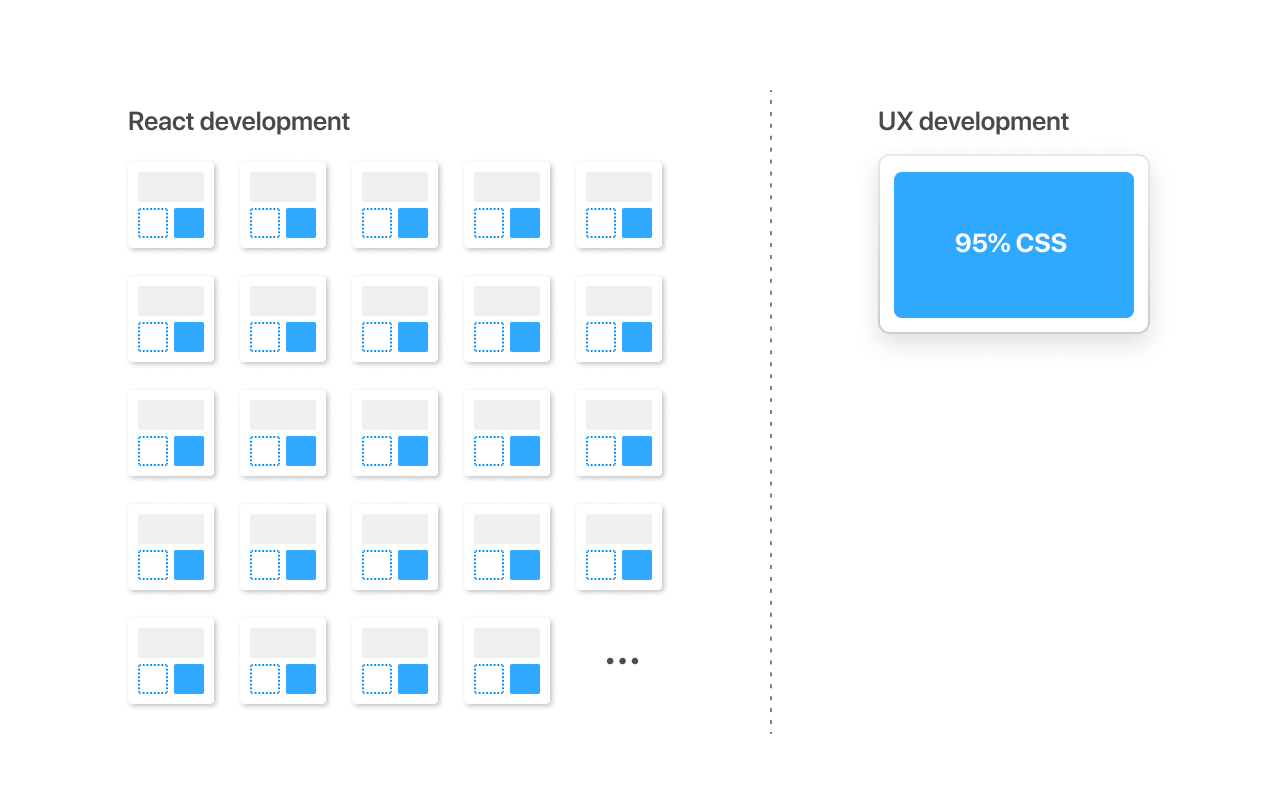
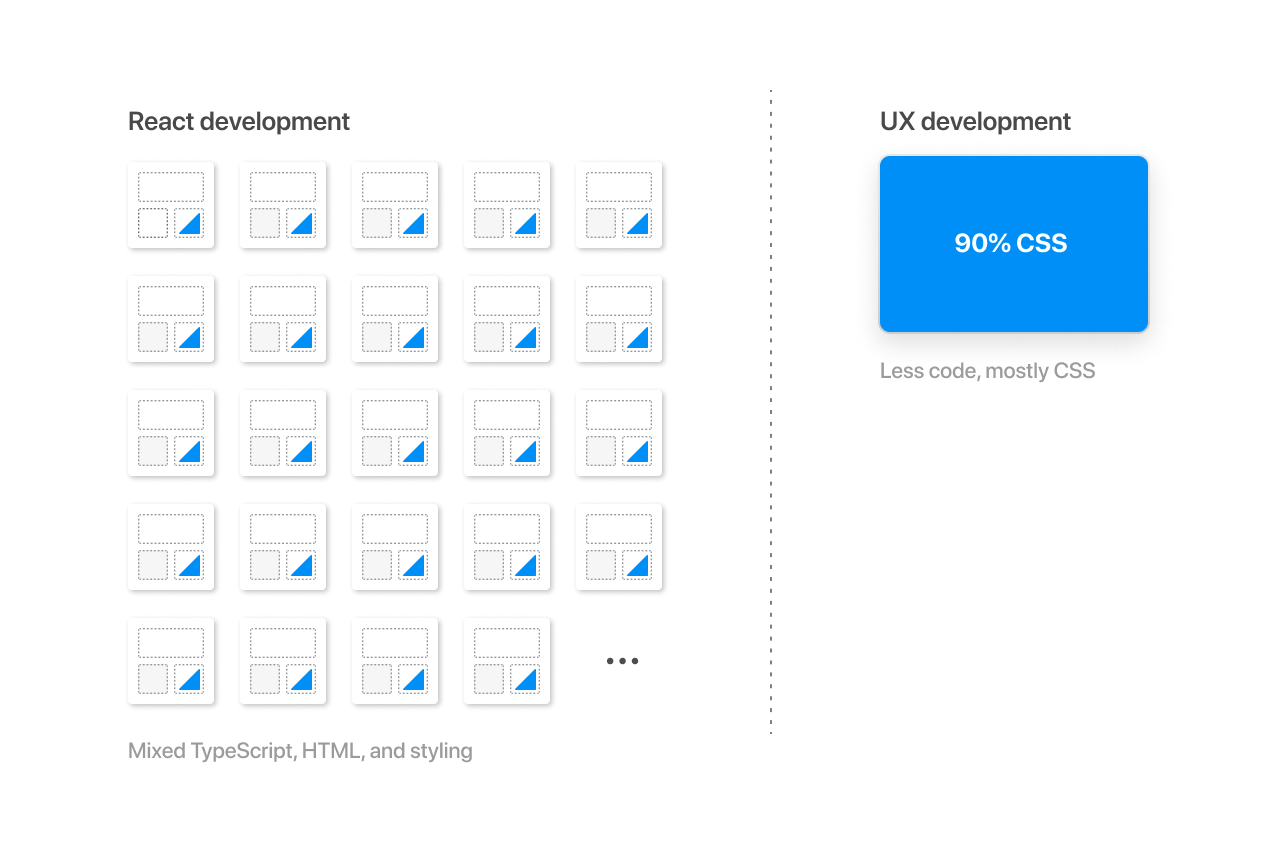
New narrative again

diff --git a/packages/nuejs.org/docs/index.md b/packages/nuejs.org/docs/index.md
@@ -1,25 +1,32 @@
 
 
-# Nue: A content-first framework
-
-Content-first is a design and develoment strategy that places content ahead of everything else to create user-friendly products. This strategy builds on the followng foundations:
-
-[image.floating]
-  src: /img/ux-stack.png
-  width: 300
-
-- [Separation of Concerns](//en.wikipedia.org/wiki/Separation_of_concerns) is a web design principle for separating your code into clearly distinct layers: content, layout, styling, and reactivity. This increases the clarity and scalability of your code.
-
-- [Form follows Function](//en.wikipedia.org/wiki/Form_follows_function) is a principle that states that the design of your website should primarily relate to its intended function. That is: draft your content first, before proceeding with the other layers of the product.
-
-- [Progressive Enhancement](//en.wikipedia.org/wiki/Progressive_enhancement) is web design strategy allowing everyone to access the basic content and functionality first, which is then enhanced with visual- and reactive elements for users with more capable devices.
-
-- [Minimalism](//en.wikipedia.org/wiki/Minimalism_(computing)) is a logical result from content-first development model. A design constrained to bare essentials produces the simplest and cleanest system architecture.
+# Web framework for UX developers
+Nue is a rapid application development environment for UX developers and other design-minded front-end engineers. It changes the way you think about web development: what used to take a React specialist and thousands of lines of TypeScript is now taken care of with just a few hundred lines of modern CSS.
 
 
+## Global design system
+Nue's secret lies in a thing called _global design system_. It provides web designers, developers, and content creators a common way to structure user interfaces:
 
-## Nue is for UX developers
-Nue makes a big difference on how you code looks like. What used to take a React/Tailwind specialist and thousands of lines of TypeScript is now taken care by a [UX developer][brad] with a few hundred lines of CSS. And the result is a record-breaking performant website with great UX for both the end users (visitors) and the people managing website content. To give you a rough idea, here are Tailwind and Nue front page source codes compared:
+! Mega Explainer Image
+    Global design system: Layout system, Styling framework, Reactivity, Optimizations
+    UX development: standard web stack, 90% CSS
+
+Nue frees you from implementing page layouts and basic UI elements over and over again and uses one system for all your new projects. Your work essentially narrows down to customizing the look and feel through CSS and optionally spice it up with a little bit of JavaScript.
+
+
+[quote from="Brad Frost" cite="//bradfrost.com/blog/post/a-global-design-system/"]
+  Global Design System improves the quality and accessibility of the world’s web experiences, saves the world’s web designers and developers millions of hours, and makes better use of our collective human potential.
+
+Think Nue as a modern-day [CSS Zen Graden](//csszengarden.com/) — a demonstration of what can be accomplished through CSS. Nue just takes it a couple of steps further and expands the idea to a full-blown web development environment.
+
+
+
+## For UX developers
+Nue is ideal for UX developers who focus on design, accessibility, and the [front of the frontend[brad]. They are fluent with the standard web stack: HTML, CSS, and the basics of JavaScript.
+
+
+### Less code, mostly CSS
+What used to be thousands of lines of TypeScript is narrowed down to just a few hundred lines of CSS. To give you a rough idea, here is the front page source code for both Tailwind and Nue:
 
 
 [.stack]
@@ -39,91 +46,157 @@ Nue makes a big difference on how you code looks like. What used to take a React
     href: //github.com/tipiirai/nue/blob/master/new-www/index.md?plain=1
 
 
+Nue requires significantly less code to build the same thing. For example, this documentation area is made up of ~250 lines of CSS and ~50 lines of optional JavaScript. Contrast this to any React-based documentation generator and you are faced with hundreds of components where the application code is mixed with all the frontend stuff:
+
+[image.gridpaper]
+  small: /img/react-vs-ux-dev.png
+  large: /img/react-vs-ux-dev-big.png
+
+
+### Less is More
+Today, the amount of JS and CSS on the resulting website can easily get out of hand. The issue is rooted in locally styled components, which are surprisingly large. For example, the combined weight of all CSS on this page is only 7kb, which is smaller than a single [Tailwind button component](/)!
+
+With Nue, you are taking a more [minimalistic approach](practices) to build user-friendly and easily maintainable products that stand the test of time.
+
+
+
+
+### Work closer to standards
+[image.floating]
+  src: /img/ux-stack.png
+  width: 300
+
+Nue embraces the [separation of concerns][soc] principle to isolate your code into clearly distinct layers: content, layout, styling, and reactivity. This increases the clarity of your code and allows you to build websites with vanilla CSS and JavaSript.
+
+The code you are writing now is something that all developers from whatever background can understand for years to come. Because trends come and go, but standards are forever.
+
+
 
 ### Shift in focus
-Nue changes the way you think about web development. Instead on learning all the advanced programming concepts and framework-specific idioms, the focus shifts to designs systems and UX development. It's a [whole different mindset][divide]:
+Instead of learning all the advanced TypeScript concepts and framework-specific idioms, the development focus shifts to building great design and user experience. It's a [whole different mindset][divide]
 
-[table head="Preference | React developer | UX developer"]
-  - Preferred tech | React + Tailwind | Web Standards
+[table head="| Engineers / React developers | Designers / UX developers"]
+  - Focus on | Programming | Design and UX
+  - Key technologies | React + Tailwind | Web Standards
   - Primary language | TypeScript | CSS
-  - Building blocks | Components | Global Design System
-  - Strategy | Tight coupling | Separation of Concerns
-  - Design strategy |  Utility classes | Form follows Function
+  - Building blocks | Custom components | Global Design System
+  - Key strategy | Tight coupling | Separation of concerns
+  - Styling method |  Local styling | External styling
   - Highly valued | Type Safety | Minimalism
 
 
-UX developers approach development from the content side focusing on the problems and desires of it's audience:
+In short: UX developers approach product solving from the customer side:
 
 [image.gridpaper]
   small: /img/ux-development.png
   large: /img/ux-development-big.png
 
-This reduces risk of over-engineering the technology stack. You may have the coolest technology choices in the world, with the sickest visual tricks possible, but if the content fails, everything fails. Or as [Steve Jobs says](//youtu.be/dI93BvrBxQ0?si=Ub2Q_S_E7uKVilVL&t=104):
+You may have the coolest technology choices in the world, with the sickest visual tricks possible, but if the UX fails, everything fails. Or as [Steve Jobs says](//youtu.be/dI93BvrBxQ0?si=Ub2Q_S_E7uKVilVL&t=104):
 
 [quote.floating from="Steve Jobs"]
   You've got to start with the customer experience and work backwards for the technology
 
 
 
-### Do more with less
-Nue requires significantly less code to build the same thing. For example, this documentation area ia made up with ~250 lines of documented CSS and ~50 lines of JavaScript (The "Zen mode" and scroll/navigation highlight). Contrast this to any React-based documentation generator and you are faced with thousands of lines with TypeScript/TSX.
-
-The same goes to the results, where the difference is also massive. For example, the combined weight of all CSS on this page is 7kb, which is smaller than a [single Tailwind button](/).
-
-Minimalism yields to most maintainable and scaleable products.
+## Superior web experiences
 
 
+### More consistent design and UX
+With Nue, you don't need one system for documentation, another for blogging, and yet another for your single-page application. Instead, you have a centrally controlled design system, effectively spread across all areas of your website. This builds a more consistent user experience.
 
-### Work closer to standards
-Thanks to separation of concerns, Nue can operate closer to with significantly less abstractions and NPM modules. Websites is mostly built with vanilla CSS and little bit of JavaScript. You'll get to know how the web works on the lower level.
+! IMAGE
+  Design system -->
+    Marketing pages
+    Documentation area
+    Blogging area
+    Product (Single-page app)
+    (view transitions)
 
-Most importantly: the code you are writing now is something that all developers can understand for years to come. Because trends come and go, but standards are forever.
+
+
+### Universal view transitions
+Nue supports [View Transition API](https://developer.chrome.com/docs/web-platform/view-transitions/) when navigating your website. This lets you use the standard `::view-transition` CSS pseudo-element to fine-tune the animation between page switches. This comes out of the box without any custom custom wiring to your links. Again, you get to learn how the web standard works.
+
+In the future version of Nue, the transitions are supported in single-page applications as well, after which you can seamlessly transition between multi-page- and single-page applications.
 
 
 
-### Build snappier experiences
-Content-first stack generates leaner and more performant websites. The resulting pages are not just smaller, but can be easily inlined to one, compact package:
+### Faster landing pages
+Nue-powered sites can offer the same performance levels as text-only websites like [motherfuckingwebsite.com](//motherfuckingwebsite.com/), but without compromising on design. That is: you can get the fastest possible page loads with the design and user experience levels of Stripe or Linear.
+
+Nue [optimizes](performance-optimization) your landing pages to a single, compact HTTP request that has everything to render the full experience:
 
 [image.gridpaper]
   small: /img/first-paint.png
   large: /img/first-paint-big.png
 
 
-This is again, much different to what the other frameworks like Next.js and Vite are doing. They put most of their effort to Rust-based bundlres that can combine and minify hundreds, sometimes even thousands of JavaScript packages and NPM moules into one deliverable. This may work for single-page applications, but is suboptimal for content-heavy websites. No amount of JS bundling can beat a tiny packet that has all the HTML and CSS to to render the full experience.
+This is pretty much the opposite of what the other frameworks like *Next.js* and *Vite* are doing. They put all their optimization efforts into Rust-based tooling that deals with hundreds, sometimes even thousands of JavaScript files. This may work for single-page applications but is not ideal for content-heavy websites. No amount of JS bundling can beat a single HTTP request that has everything to render the page.
 
 
-### Nue makes you move faster
-When the core parts of your web stack are neatly separated, people can focus on the areas they are natively interested in:
+
+
+## Faster, happier teams
+When the core parts of your web stack are neatly separated your team members can focus on areas they are natively good at.
+
+
+### Content people
+*Marketers, copywriters* and *technical writers* can focus on content in isolation without constant troubling of the developers. All your pages, from rich landing pages to simple blog entries are editable by non-technical people. Here's the difference between Next.js and Nue and how the front page is authored:
+
+[.stack]
+  [image.bordered]
+    small: /img/mixed-content.png
+    large: /img/mixed-content-big.png
+    caption: "Next.js: content is found inside JavaScript code
+    href: //github.com/tailwindlabs/tailwindcss.com/blob/master/src/pages/index.js#L151
+
+  ---
+  [image.bordered]
+    small: /img/nue-page.png
+    large: /img/nue-page-big.png
+    caption: "Nue: content is fully extracted for copywriters"
+    href: //github.com/tipiirai/nue/blob/master/new-www/index.md?plain=1
+
+
+### UX developers
+The whole point of a web framework is to help build user-friendly websites that look great. But today, this is all too complex. The user experience developers must know an awful lot of details about React, and TypeScript, even to render a simple "Hello, World" demo.
+
+Nue is different: it brings back to the lost art of UX development, currently overshadowed by engineer-minded people who think that CSS is a terrible language that should not exist. Nue is the opposite: it's for people who love design, UX development, and the power of modern CSS.
+
+
+### JavaScript developers
+If you're a programmer or a backend engineer trying to learn the frontend stack, you are faced with an awful of new concepts and domain-specific idioms. What used to be plain and clean TypeScript is suddenly mixed with mysterious front-end coding.
+
+Nue changes this completely. It separates your application from the front end so you can focus solely on your application logic. Just pure, type-safe code without the frontend spaghetti, which naturally belongs to the UX developer.
 
 [image.gridpaper]
   small: /img/scale.png
   large: /img/scale-big.png
 
 
-- *UX developers* can focus on design and user experience without troubling themselves with advanced TypeScript/React concepts.
-
-- *Marketers, copywriters* and *technical writers* can focus on content in isolation without constant troubling of developers.
-
-- *JavaScript developers* can focus on the application logic without troubling themselves with design or CSS.
+To sum up: Nue is not just another JavaScript framework. It increases the quality of your product and makes happier, more productive teams. You might not believe that until you actually try it out and experience the simplicity firsthand. You start wondering why you ever built frontends any other way.
 
 
-## Key features of Nue
+- - -
+
+
+## Continue reading
 
 [.grid item="card"]
   ### Global Design System
-  A styling framework to save you from repeating yourself
+  A universal styling framework for your web projects
 
   [Learn more](global-design-system.html)
   ---
 
   ### Content Management System
-  A powerful content management system for marketers, and technical writers
+  A simple content management system for non-technical people
 
   [Learn more](content-management-system.html)
   ---
 
   ### Reactivity layer
-  Turns your content into rich, interactive experience
+  Turns your content into a rich, interactive experience
 
   [Learn more](reactivity.html)
   ---

diff --git a/packages/nuejs.org/docs/command-line-interface.md b/packages/nuejs.org/docs/command-line-interface.md
@@ -1,0 +1,90 @@
+
+# Command line interface
+The command line interface documents itself with a `--help` option:
+
+
+## Options
+
+``` sh
+nue --help
+```
+
+This returns following output
+
+``` nuemark
+Usage
+  nue [command] [options] [file_matches]
+  nue -v or --version
+  nue -h or --help
+
+Commands
+  serve    Start development server (default command)
+  build    Build the site under <root_dir>
+  stats    Show site statistics (beta)
+
+Options
+  -r or --root          Source directory. Default "." (current working dir)
+  -p or --production    Build production version / Show production stats
+  -e or --environment   Read extra options to override defaults in site.yaml
+  -s or --stats         Show site statistics after current command
+  -I or --init          Force clear and initialize output directory
+  -n or --dry-run       Show what would be built. Does not create outputs
+  -b or --esbuild       Use esbuild. `npm install -g esbuild` required
+
+File matches
+  Only build files that match the rest of the arguments. For example:
+  "nue build .ts .css" will build all TypeScript and CSS files
+
+Examples
+  # serve current directory
+  nue
+
+  # build everything
+  nue build
+
+  # build everything to production with extra config
+  nue build --production --environment staging.yaml
+
+  # build all Markdown and CSS files
+  nue build .md .css
+
+  # more examples
+  open https://nuejs.org/docs/cli
+
+Less is more
+
+ ┏━┓┏┓┏┳━━┓
+ ┃┏┓┫┃┃┃┃━┫
+ ┃┃┃┃┗┛┃┃━┫  nuejs.org
+ ┗┛┗┻━━┻━━┛
+
+```
+
+
+## Examples
+Few more usage examples:
+
+``` sh
+# serve current directory
+nue
+
+# serve the production version (no hot-reloading)
+nue --production
+
+# build to production with custom settings
+nue build -p --environment custom.yaml
+
+# show production stats
+nue -p stats
+
+# show what will be built (without building)
+nue build .js .ts .nue --dry-run
+```
+
+## How it looks
+
+Here's an example output of `nue build` command. The operation usually takes less than 100 milliseconds to perform, even with hundreds of files.
+
+[bunny-video]
+  videoId: 45b73e3a-3edd-47af-bcd8-49039496b107
+  width: 600

diff --git a/packages/nuejs.org/docs/global-design-system.md b/packages/nuejs.org/docs/global-design-system.md
@@ -1,6 +1,30 @@
 
 
 # Global Design System
+
+## CSS Zen Garden
+Nue layout system is a modern-day [CSS Zen Graden](//csszengarden.com/). For those old enough to remember, it was a demonstration of what can be accomplished through CSS-based design. You always get the same layout for your pages and components, but the design can change wildly just by using a different stylesheet.
+
+Nue layout system is exactly the same idea, and extends it with the following
+
+1. Standard's based HTML layouts for most common scenarios: blog entries, documentation entries, index pages, and rich freeform layouts like the front page. Modern Semantic HTML elements, not available in the era of Zen Garden.
+
+1. Component library. A growing set. Focusing on content-heavy websites, and later expanding to SPA's as well. Perfected with accessibility guidelines. The HTML code in the standard componetns follow closely W3C..
+
+
+1. Reactivity layyer: Complete web experiences with view transitions, web components, and reactive components.  after 20 years of advancement CSS and web technologies.
+
+
+// blog.logrocket.com/ux-design/creating-global-design-system/
+### Don't repeat yourself
+
+
+
+
+### Markdown extensions
+Nuemark = Markdown + Global Design System, ..
+
+
 Global design system (GDS) is a styling framework to turn your personal design system into a functional website:
 
 [image.gridpaper]
@@ -9,10 +33,7 @@ Global design system (GDS) is a styling framework to turn your personal design s
 
 
 
-Nue offers a headless set of page layouts and components so that implementing a website reduces to creating your personal theme with Nue's powerful styling framework. Think of it like a modern-day [CSS Zen Garden](//www.csszengarden.com/) but after 20 years of advancement CSS and web technologies.
 
-[quote from="Brad Frost" cite="//bradfrost.com/blog/post/a-global-design-system/"]
-  Global Design System improves the quality and accessibility of the world’s web experiences, save the world’s web designers and developers millions of hours, and make better use of our collective human potential.
 
 
 ## Shift in focus

diff --git a/packages/nuejs.org/index.md b/packages/nuejs.org/index.md
@@ -7,13 +7,13 @@ appdir: home
 
 [.hero]
   # Web Framework For UX Developers
-  Nue is a content-first framework for rapidly building highly performant and pixel-perfect websites
+  Nue is a rapid development environment for remarkably fast and pixel-perfect websites
 
   [button.secondary href="/docs/" "Learn Nue.js"]
   [button href="/docs/try-beta" "Try Beta"]
 
 
-## Better development experience
+## A rapid development environment
 
 [image inline]
   alt: Image of an CPU with animated arrows pointing to key Nue features
